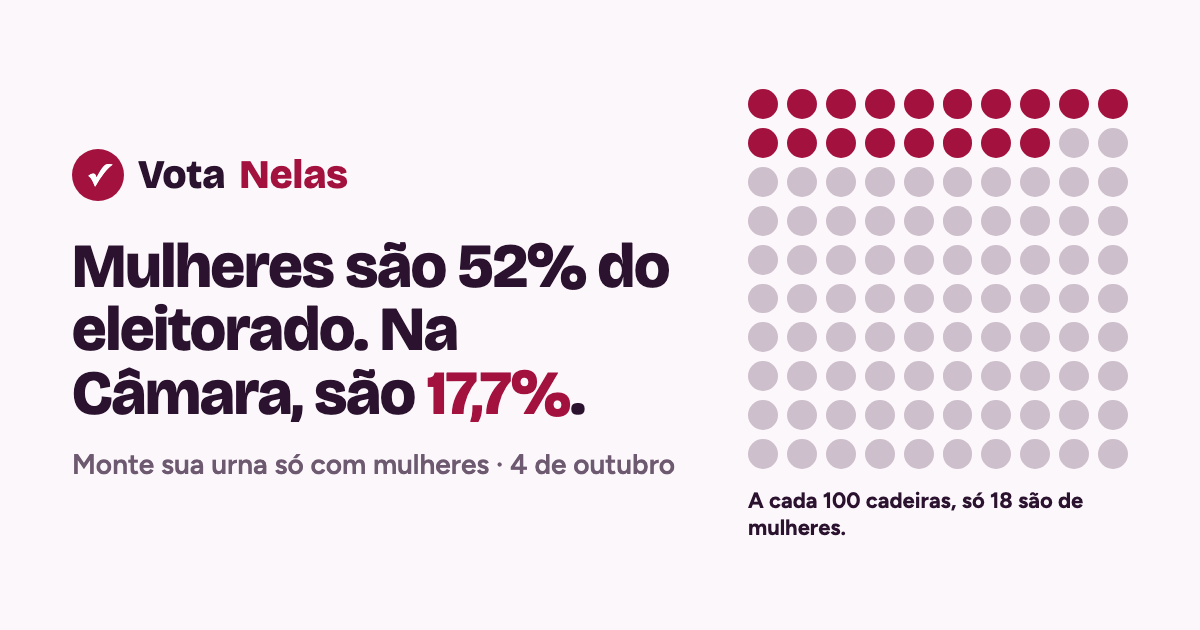
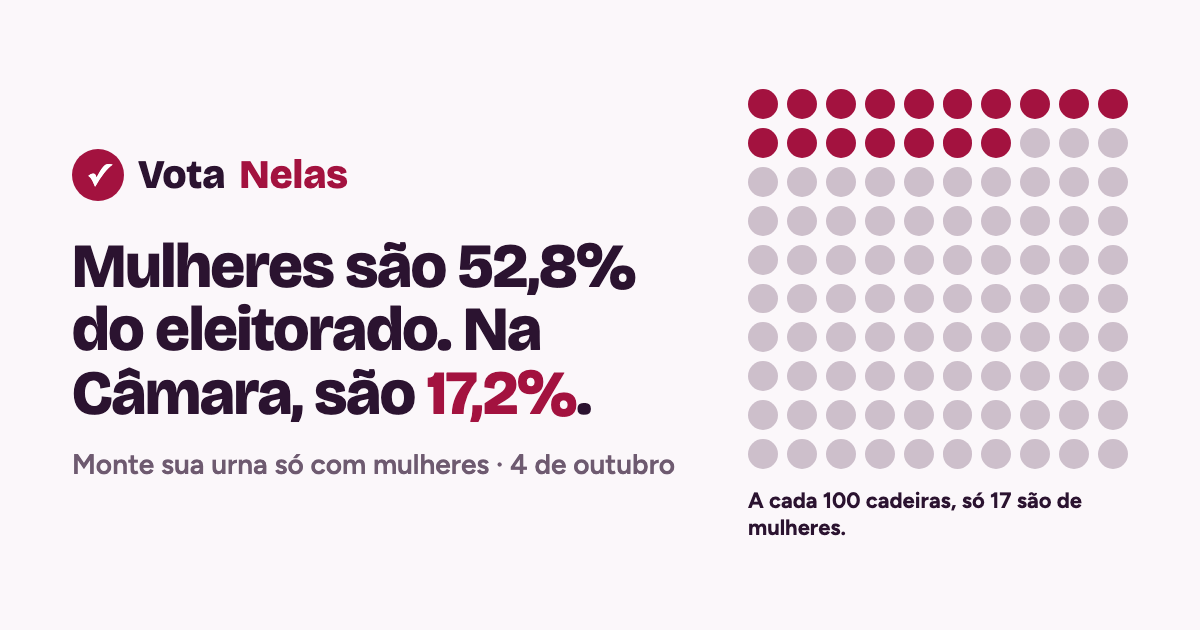
Atualiza os números do site com fontes oficiais
Os números vinham de reportagens (Poder360 e Correio Braziliense) e
estavam desatualizados. Agora usam só fontes oficiais, consultadas em
25/09/2026:
- eleitorado: 52,8% de mulheres (TSE; antes 52%);
- Câmara: 88 de 513 deputadas em exercício, 17,2% (Câmara dos
  Deputados, dados abertos; antes 91, 17,7%);
- Senado: 15 de 81 senadoras (Senado Federal, dados abertos; antes 16);
- candidaturas: 7.365 mulheres de 20.986 registros (TSE, dados
  abertos; antes 7.140 de 20.506).

O rodapé passa a listar essas fontes e o texto da EC 111/2021 no
Planalto. A og.png e o README acompanham os números novos.

Changed region(s): [[0.0617, 0.3619, 0.555, 0.6635], [0.8325, 0.7841, 0.8942, 0.8143], [0.8325, 0.2111, 0.8942, 0.2413]]

diff --git a/site/index.html b/site/index.html
@@ -4,7 +4,7 @@
 <meta charset="utf-8">
 <meta name="viewport" content="width=device-width, initial-scale=1, viewport-fit=cover">
 <title>Vota Nelas: monte sua urna só com mulheres</title>
-<meta name="description" content="Mulheres são 52% do eleitorado e só 17,7% da Câmara. Monte sua urna com mulheres em 3 minutos e envie a colinha para 3 amigas. Eleições de 4 de outubro de 2026.">
+<meta name="description" content="Mulheres são 52,8% do eleitorado e só 17,2% da Câmara. Monte sua urna com mulheres em 3 minutos e envie a colinha para 3 amigas. Eleições de 4 de outubro de 2026.">
 <meta name="theme-color" content="#A3123F">
 <link rel="canonical" href="https://votanelas.com.br/">
 <link rel="icon" href="favicon.svg" type="image/svg+xml">
@@ -17,7 +17,7 @@
 <meta property="og:image" content="https://votanelas.com.br/og.png">
 <meta property="og:image:width" content="1200">
 <meta property="og:image:height" content="630">
-<meta property="og:image:alt" content="Vota Nelas: mulheres são 52% do eleitorado e 17,7% da Câmara.">
+<meta property="og:image:alt" content="Vota Nelas: mulheres são 52,8% do eleitorado e 17,2% da Câmara.">
 <meta name="twitter:card" content="summary_large_image">
 <link rel="preconnect" href="https://fonts.googleapis.com">
 <link rel="preconnect" href="https://fonts.gstatic.com" crossorigin>
@@ -284,15 +284,15 @@ footer ul{margin:8px 0 0;padding-left:18px}
     <div class="hero-grid">
       <div>
         <p class="eyebrow">Eleições · 4 de outubro de 2026</p>
-        <h1 style="margin-top:12px">Mulheres são 52% do eleitorado. Na Câmara, são <span class="hl">17,7%</span>.</h1>
+        <h1 style="margin-top:12px">Mulheres são 52,8% do eleitorado. Na Câmara, são <span class="hl">17,2%</span>.</h1>
         <p class="lead">Na urna você digita 6 números. Monte sua urna só com mulheres e envie para 3 amigas. Leva 3 minutos.</p>
         <div class="cta-row">
           <a class="btn btn-primary" href="#urna">Montar minha urna</a>
           <a class="btn btn-ghost" href="#dobro">O que conta em dobro?</a>
         </div>
       </div>
-      <div class="people" aria-label="Retrato da Câmara: a cada 100 cadeiras, 18 são de mulheres">
-        <p class="cap">Se a Câmara tivesse 100 cadeiras, <b>só 18 seriam de mulheres</b>.</p>
+      <div class="people" aria-label="Retrato da Câmara: a cada 100 cadeiras, 17 são de mulheres">
+        <p class="cap">Se a Câmara tivesse 100 cadeiras, <b>só 17 seriam de mulheres</b>.</p>
         <div class="dots" id="dots"></div>
         <div class="legend"><span><i style="background:var(--vinho)"></i>Deputadas</span><span><i style="background:var(--men)"></i>Deputados</span></div>
       </div>
@@ -392,10 +392,11 @@ footer ul{margin:8px 0 0;padding-left:18px}
     <div>
       <b style="color:var(--ink)">Fontes</b>
       <ul>
-        <li><a href="https://www.poder360.com.br/poder-congresso/maior-da-historia-bancada-feminina-ainda-e-so-18-do-congresso/" target="_blank" rel="noopener">Bancada feminina (Poder360)</a></li>
-        <li><a href="https://www.correiobraziliense.com.br/politica/2026/08/7481463-tse-registra-mais-de-20-mil-candidaturas-3482-sao-de-mulheres.html" target="_blank" rel="noopener">Candidaturas 2026 (TSE via Correio Braziliense)</a></li>
-        <li><a href="https://www.camara.leg.br/radio/programas/905034-eleicao-de-negros-e-mulheres-vai-contar-em-dobro-para-distribuicao-do-fundo-eleitoral/" target="_blank" rel="noopener">Voto em dobro (Rádio Câmara)</a></li>
-        <li><a href="https://dadosabertos.tse.jus.br/dataset/candidatos-2026" target="_blank" rel="noopener">Dados abertos do TSE</a></li>
+        <li><a href="https://dadosabertos.camara.leg.br/" target="_blank" rel="noopener">Deputadas em exercício (Câmara dos Deputados, dados abertos)</a></li>
+        <li><a href="https://legis.senado.leg.br/dadosabertos/" target="_blank" rel="noopener">Senadoras em exercício (Senado Federal, dados abertos)</a></li>
+        <li><a href="https://www.tse.jus.br/comunicacao/noticias/2026/Setembro/faltam-30-dias-brasil-tem-mais-de-158-milhoes-de-eleitoras-e-eleitores-aptos-a-votar" target="_blank" rel="noopener">Eleitorado 2026 (TSE)</a></li>
+        <li><a href="https://www.planalto.gov.br/ccivil_03/constituicao/emendas/emc/emc111.htm" target="_blank" rel="noopener">Voto em dobro (Emenda Constitucional 111/2021)</a></li>
+        <li><a href="https://dadosabertos.tse.jus.br/dataset/candidatos-2026" target="_blank" rel="noopener">Candidaturas 2026 (TSE, dados abertos)</a></li>
         <li>Mapa: <a href="https://github.com/VictorCazanave/svg-maps" target="_blank" rel="noopener">SVG Maps</a>, de Victor Cazanave (CC BY 4.0)</li>
       </ul>
     </div>
@@ -428,10 +429,11 @@ footer ul{margin:8px 0 0;padding-left:18px}
   const FORA = {AL:[583,233],PB:[590,193],PE:[590,213],RN:[590,174],SE:[573,247],ES:[530,398],RJ:[505,440]};
 
   const BARS = [
-    {t:"Câmara dos Deputados",s:"91 de 513 cadeiras",v:91/513},
-    {t:"Senado Federal",s:"16 de 81 cadeiras",v:16/81},
-    {t:"Candidaturas em 2026",s:"7.140 de 20.506 registros",v:0.3482},
-    {t:"Eleitorado",s:"Mulheres que votam",v:0.52}
+    // fontes oficiais, consultadas em 25/09/2026 (links no rodapé)
+    {t:"Câmara dos Deputados",s:"88 de 513 cadeiras",v:88/513},
+    {t:"Senado Federal",s:"15 de 81 cadeiras",v:15/81},
+    {t:"Candidaturas em 2026",s:"7.365 de 20.986 registros",v:7365/20986},
+    {t:"Eleitorado",s:"83,8 milhões de eleitoras",v:0.5281}
   ];
 
   // ---------- dia da eleição: sem novos conteúdos ----------
@@ -450,7 +452,7 @@ footer ul{margin:8px 0 0;padding-left:18px}
 
   // pessoas (hero)
   const dots=$("#dots");
-  for(let i=0;i<100;i++){const d=document.createElement("i");if(i<18){d.className="w";d.style.animationDelay=(i*40)+"ms"}dots.appendChild(d)}
+  for(let i=0;i<100;i++){const d=document.createElement("i");if(i<17){d.className="w";d.style.animationDelay=(i*40)+"ms"}dots.appendChild(d)}
 
   // barras
   $("#bars").innerHTML = BARS.map(b=>`
@@ -708,7 +710,7 @@ footer ul{margin:8px 0 0;padding-left:18px}
     const cs=cargos(state.uf||"SP");
     const escolhidas=cs.filter(c=>state.picks[c.id]);
     if(!escolhidas.length){
-      return `*Só 18% da Câmara dos Deputados é de mulheres.*\n\n`+
+      return `*Só 17% da Câmara dos Deputados é de mulheres.*\n\n`+
         `Em 4 de outubro dá para mudar isso. Monte sua urna só com mulheres em 3 minutos e leve a colinha no dia da votação:\n`+
         `${SITE_URL}`;
     }

diff --git a/scripts/og.html b/scripts/og.html
@@ -22,13 +22,13 @@
 <body>
   <div>
     <div class="logo"><i>✓</i>Vota <em>Nelas</em></div>
-    <h1>Mulheres são 52% do eleitorado. Na Câmara, são <span>17,7%</span>.</h1>
+    <h1>Mulheres são 52,8% do eleitorado. Na Câmara, são <span>17,2%</span>.</h1>
     <p>Monte sua urna só com mulheres · 4 de outubro</p>
   </div>
   <div>
     <div class="dots" id="d"></div>
-    <p class="cap">A cada 100 cadeiras, só 18 são de mulheres.</p>
+    <p class="cap">A cada 100 cadeiras, só 17 são de mulheres.</p>
   </div>
-  <script>for(let i=0;i<100;i++){const e=document.createElement("i");if(i<18)e.className="w";d.appendChild(e)}</script>
+  <script>for(let i=0;i<100;i++){const e=document.createElement("i");if(i<17)e.className="w";d.appendChild(e)}</script>
 </body>
 </html>

diff --git a/README.md b/README.md
@@ -2,7 +2,7 @@
 
 Site suprapartidário para aumentar o número de mulheres eleitas nas eleições de 4 de outubro de 2026.
 
-Mulheres são 52% do eleitorado e 17,7% da Câmara dos Deputados. O Vota Nelas ajuda cada eleitora e eleitor a montar uma urna só com mulheres, com os nomes e números oficiais do TSE, e a compartilhar essa escolha com as amigas.
+Mulheres são 52,8% do eleitorado e 17,2% da Câmara dos Deputados (TSE e Câmara, setembro de 2026). O Vota Nelas ajuda cada eleitora e eleitor a montar uma urna só com mulheres, com os nomes e números oficiais do TSE, e a compartilhar essa escolha com as amigas.
 
 Responsável: Thais Freitas (thaisfreitas31@gmail.com)
 
